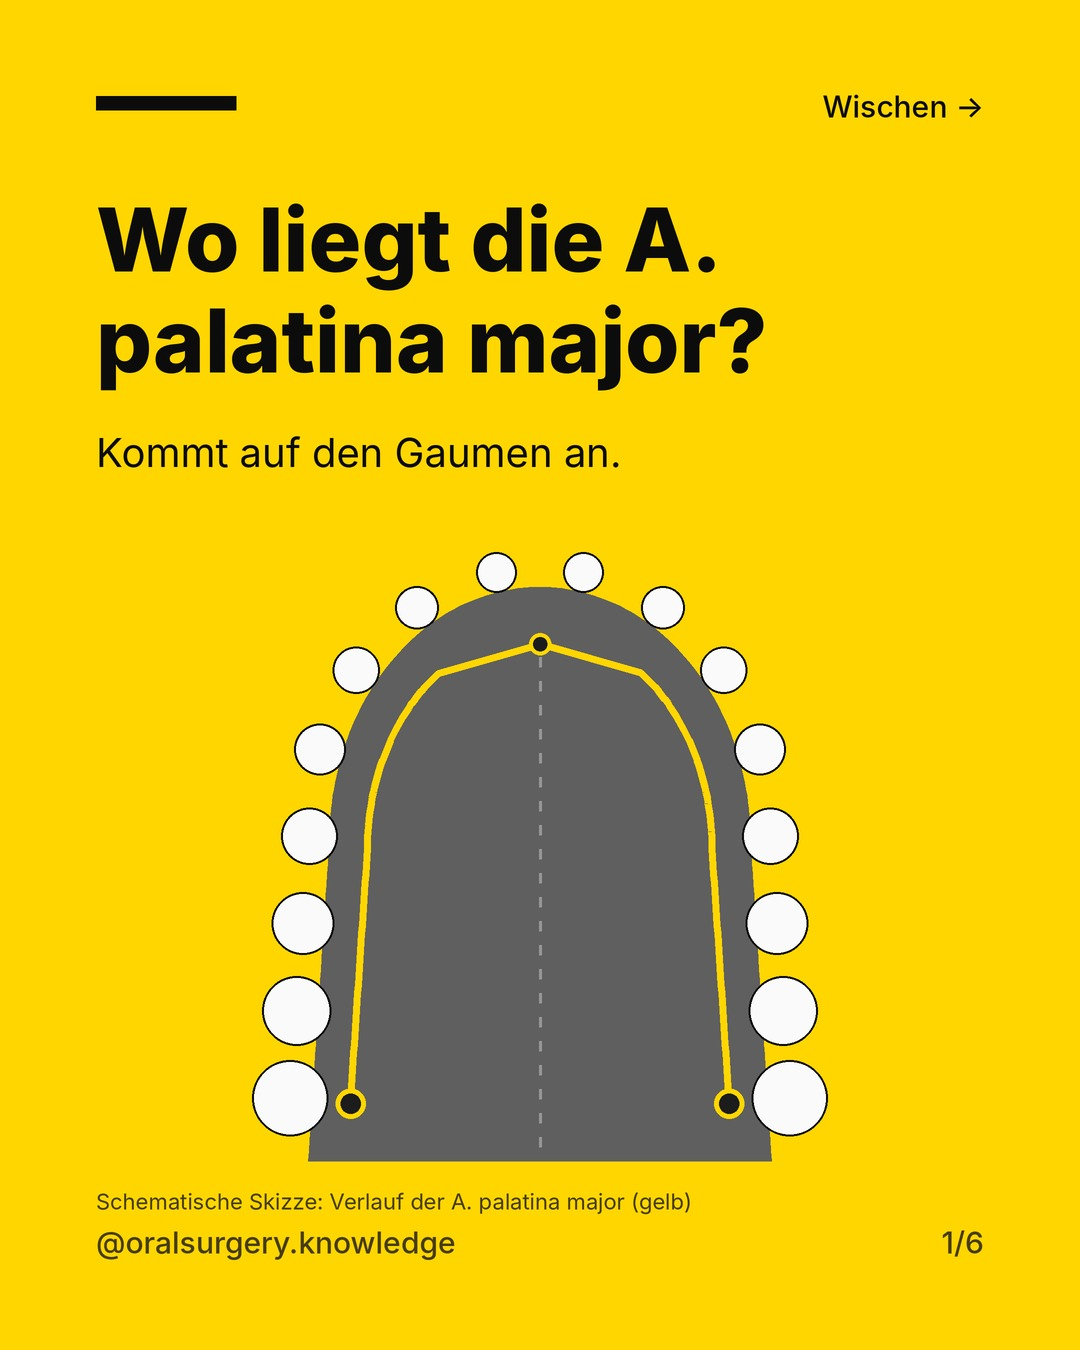
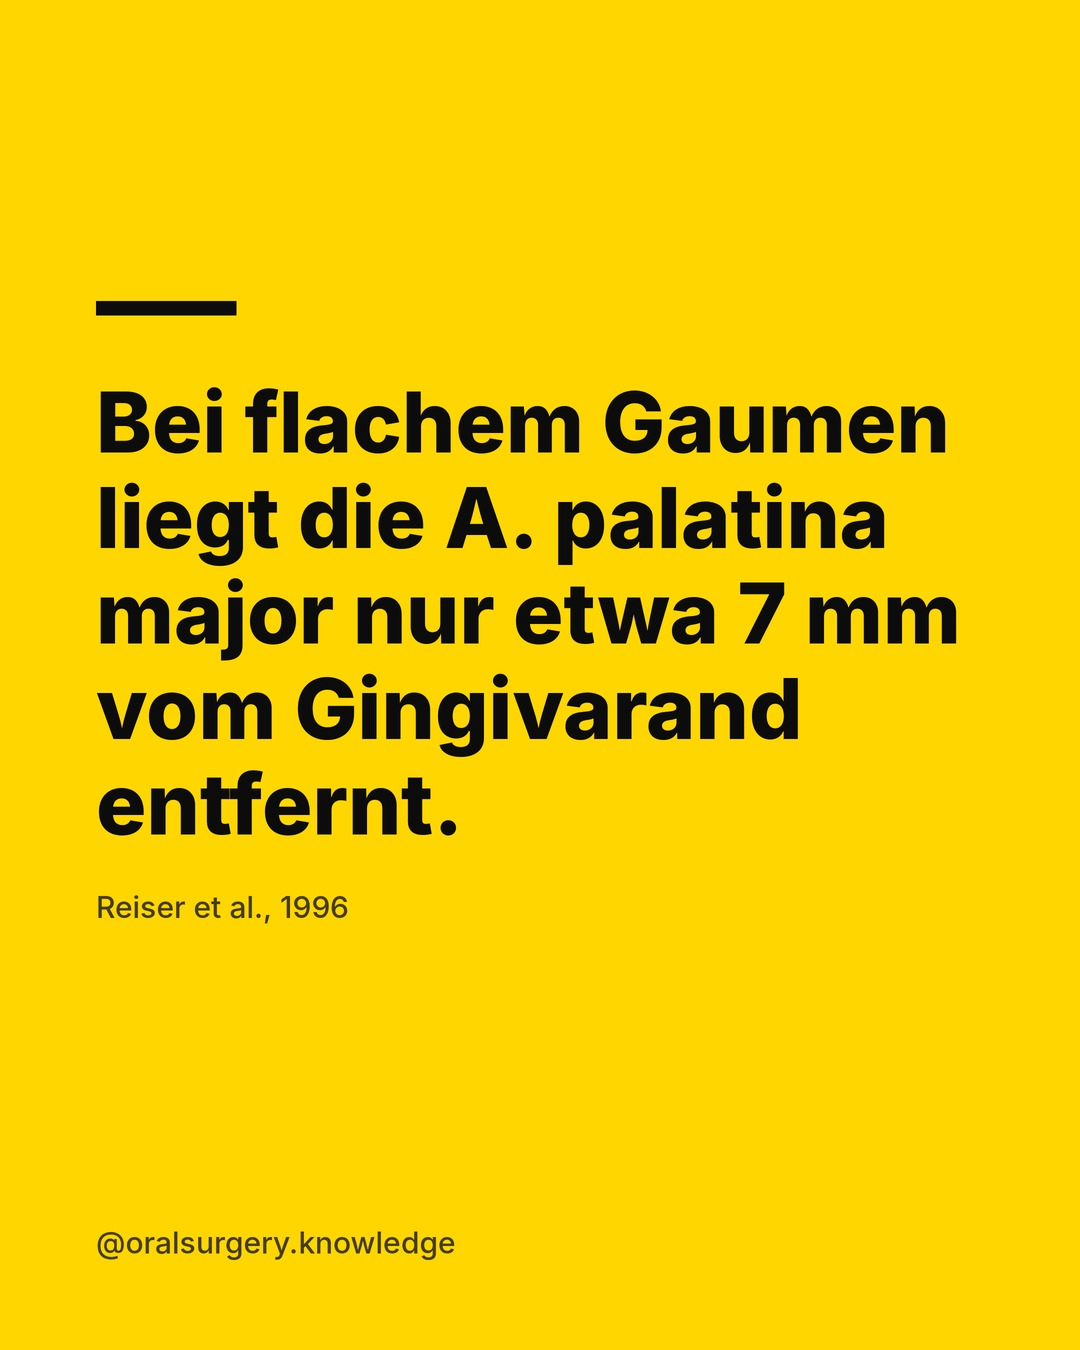
Format: ein Satz pro Post, Quelle und Hinweis in der Caption
Claude-Session: https://claude.ai/code/session_01U5qgBGjcqBxPoaN4cuUDy4

diff --git a/tools/make_slides.py b/tools/make_slides.py
@@ -3,7 +3,13 @@
 
 Aufruf: python3 make_slides.py slides.json ausgabe-ordner/
 
-slides.json:
+slides.json (Standard: ein Satz, eine Folie):
+{
+  "handle": "@deinaccount",
+  "slides": [{"statement": true, "title": "Ein Satz mit einem Fakt.", "source": "Autor et al., Jahr"}]
+}
+
+Mehrere Folien (optional):
 {
   "handle": "@deinaccount",
   "slides": [
@@ -207,7 +213,38 @@ def draw_sketch(d, name, box):
 
 # ---------- Folien ----------
 
+def render_statement(slide, handle):
+    """Ein Satz, gross und mittig, darunter Kurzquelle."""
+    img = Image.new("RGB", (W * S, H * S), BG)
+    d = ImageDraw.Draw(img)
+    pad = PAD * S
+    max_w = W * S - 2 * pad
+    size = 84
+    f_text = font("Inter-ExtraBold.otf" if (FONT_DIR / "Inter-ExtraBold.otf").exists()
+                  else "Inter-Bold.otf", size)
+    lines = wrap(d, slide["title"], f_text, max_w)
+    while len(lines) > 6 and size > 56:
+        size -= 6
+        f_text = font("Inter-Bold.otf", size)
+        lines = wrap(d, slide["title"], f_text, max_w)
+    lh = int(size * 1.14 * S)
+    f_src = font("Inter-Medium.otf", 30)
+    block = len(lines) * lh + 70 * S
+    y = (H * S - block) // 2 - 30 * S
+    d.rectangle([pad, y - 70 * S, pad + 140 * S, y - 56 * S], fill=ACCENT)
+    for line in lines:
+        d.text((pad, y), line, font=f_text, fill=INK)
+        y += lh
+    if slide.get("source"):
+        d.text((pad, y + 40 * S), slide["source"], font=f_src, fill=MUTED)
+    f_meta = font("Inter-Medium.otf", 30)
+    d.text((pad, H * S - pad - 30 * S), handle, font=f_meta, fill=MUTED)
+    return img.resize((W, H), Image.LANCZOS)
+
+
 def render(slide, idx, total, handle, is_hook):
+    if slide.get("statement"):
+        return render_statement(slide, handle)
     img = Image.new("RGB", (W * S, H * S), BG)
     d = ImageDraw.Draw(img)
     pad = PAD * S
